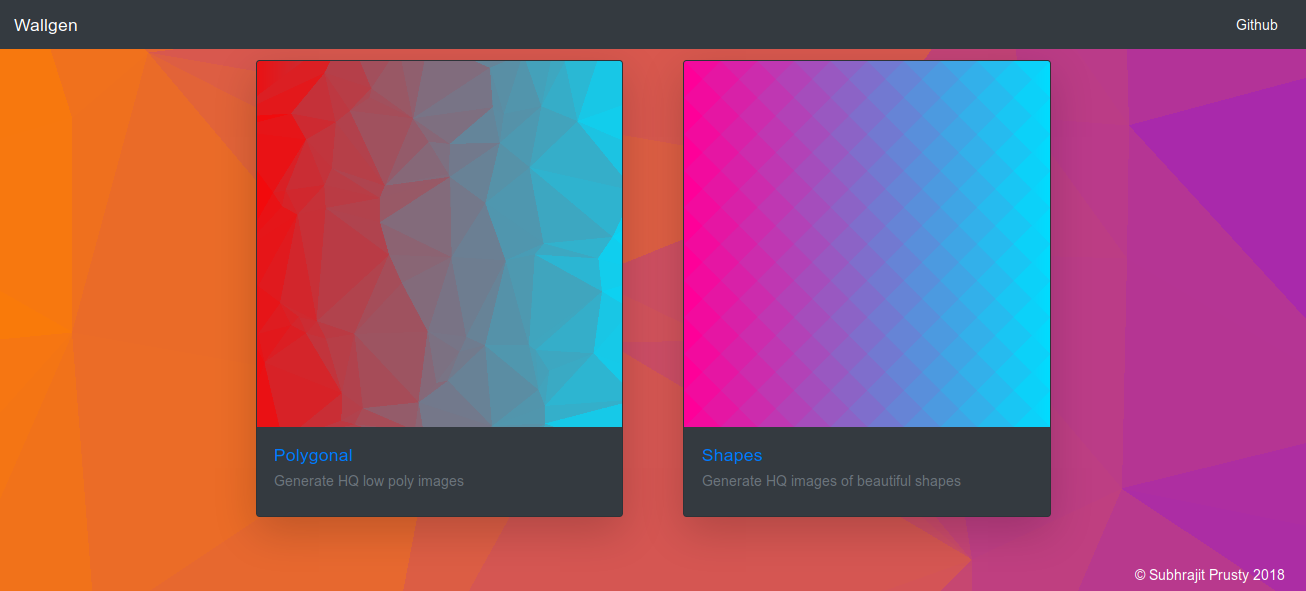
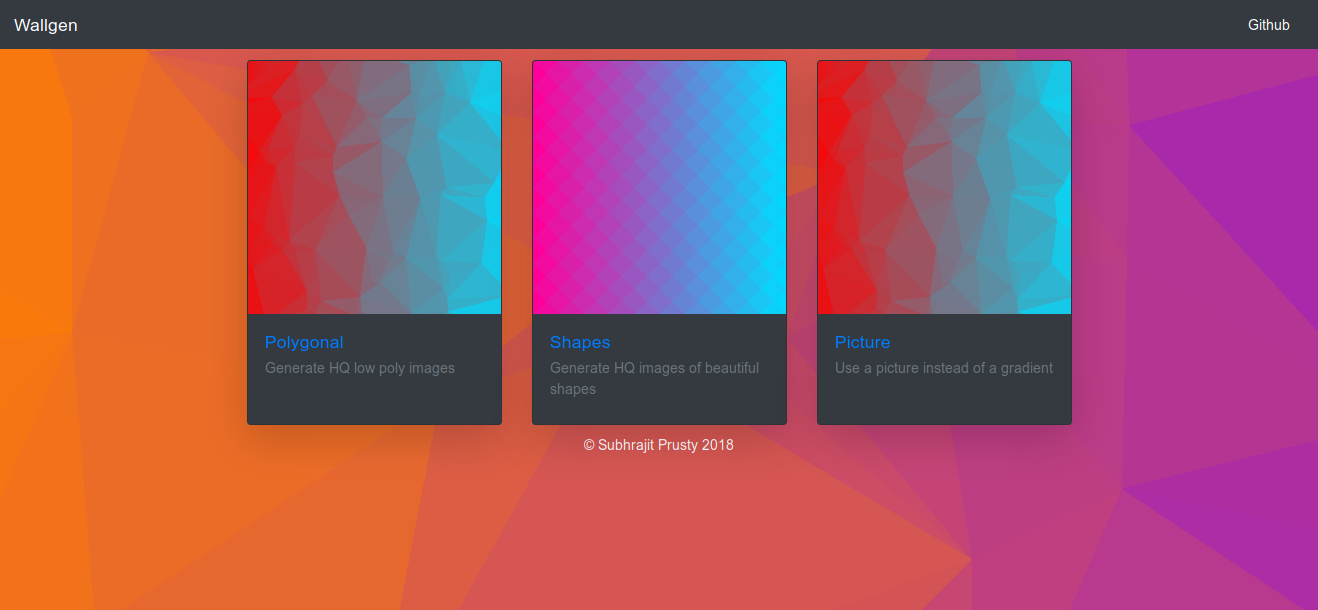
changed screenshots

diff --git a/templates/home.html b/templates/home.html
@@ -19,7 +19,7 @@
 				</div>
 			</a>
 			<a class="card shadow-lg bg-dark" href="/pic" style="text-decoration: none;">
-				<img class="card-img-top" src="static/images/poly.png" alt="Picture">
+				<img class="card-img-top" src="static/images/anime-poly.png" alt="Picture">
 				<div class="card-body">
 					<h5 class="card-title">Picture</h5>
 					<p class="card-subtitle mb-2 text-muted">Use a picture instead of a gradient</p>

diff --git a/README.md b/README.md
@@ -276,3 +276,7 @@ Using a picture with 50000 points
 ### Shapes Page
 
 ![Polygon](./images/web-shape.png)
+
+### Pic Page
+
+![Pic](./images/web-pic.png)
